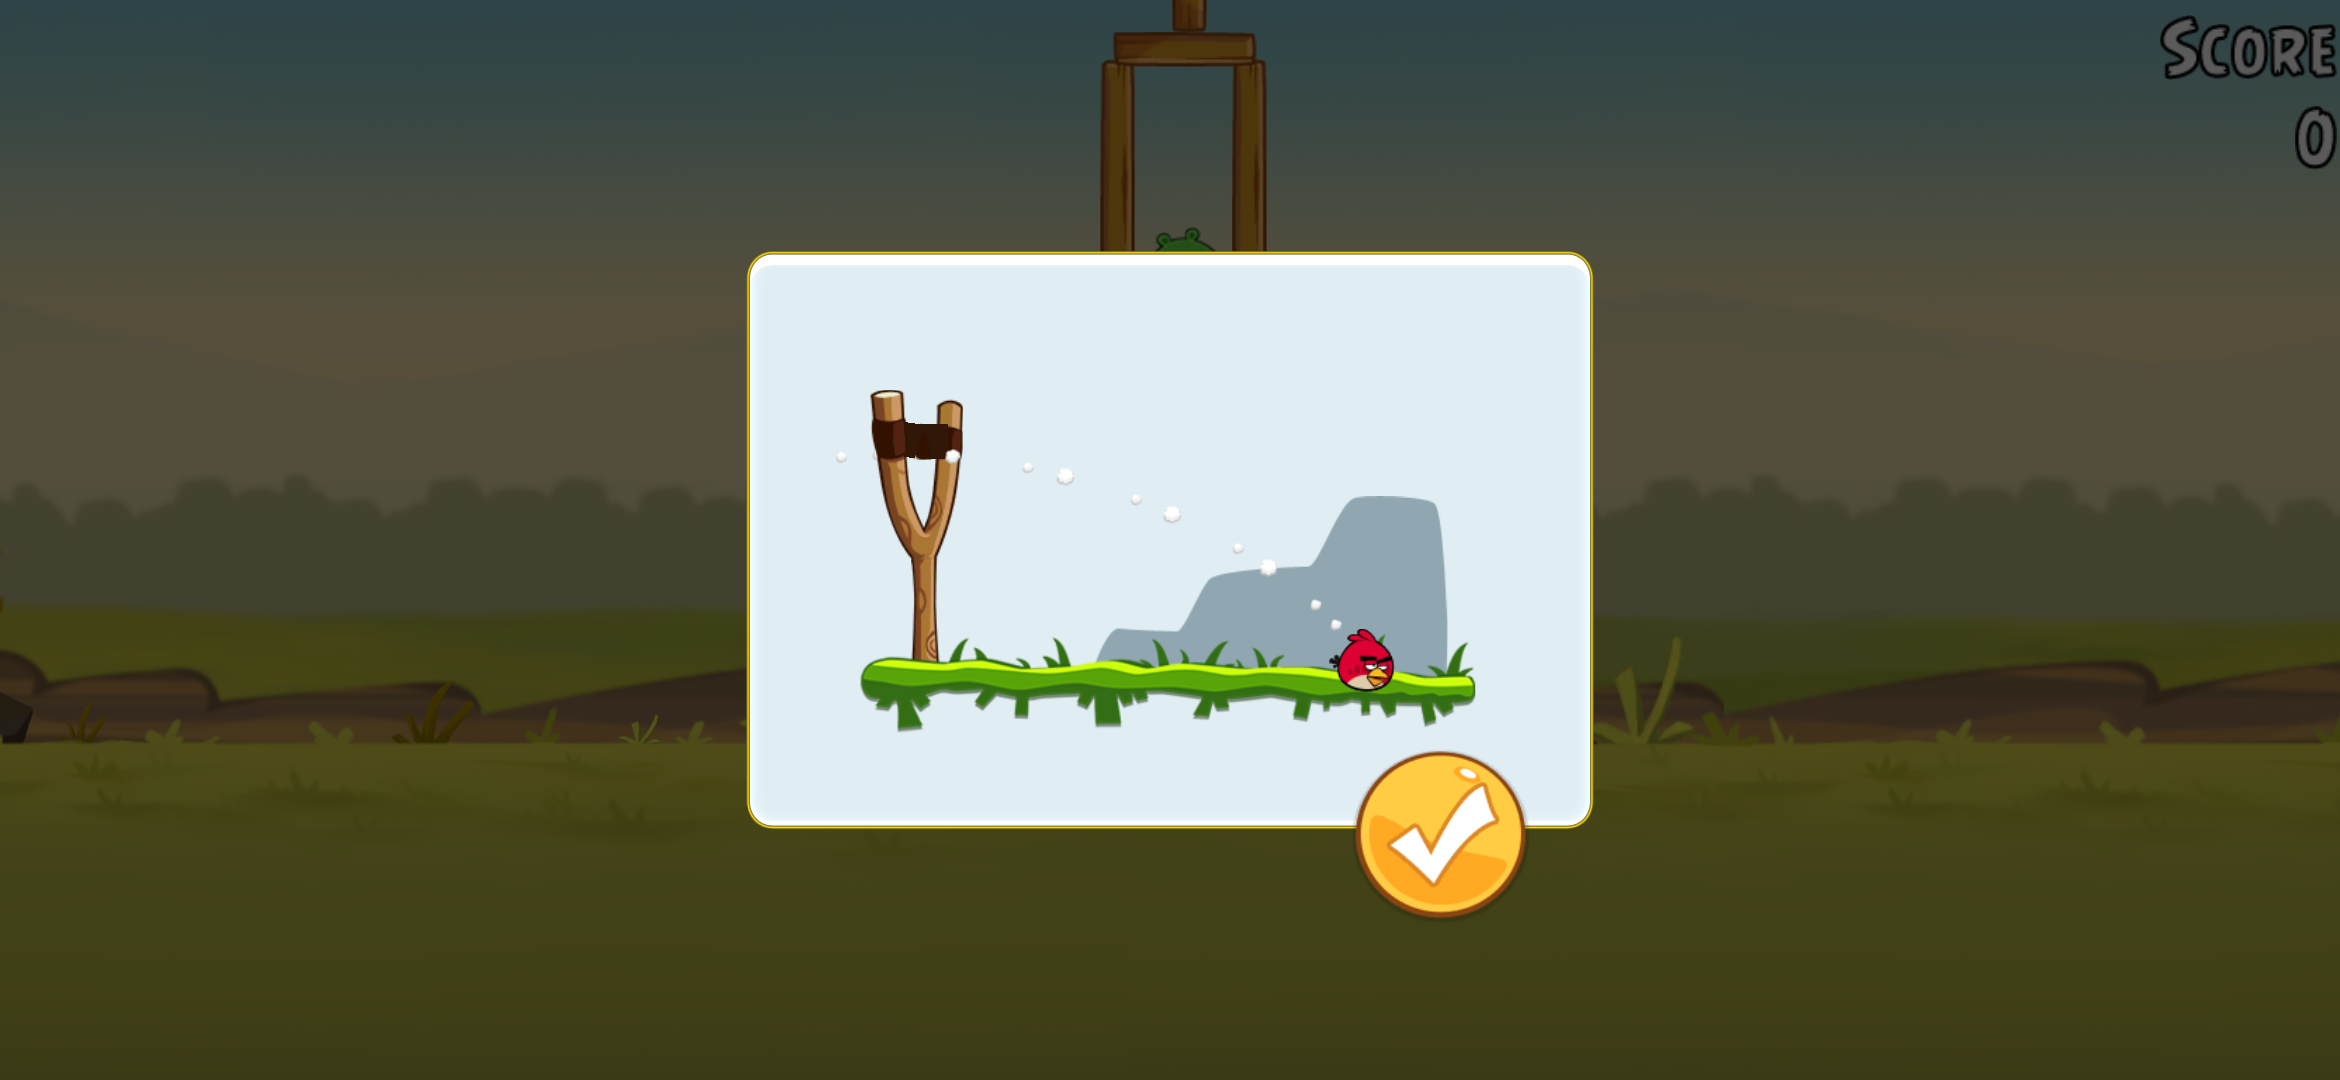
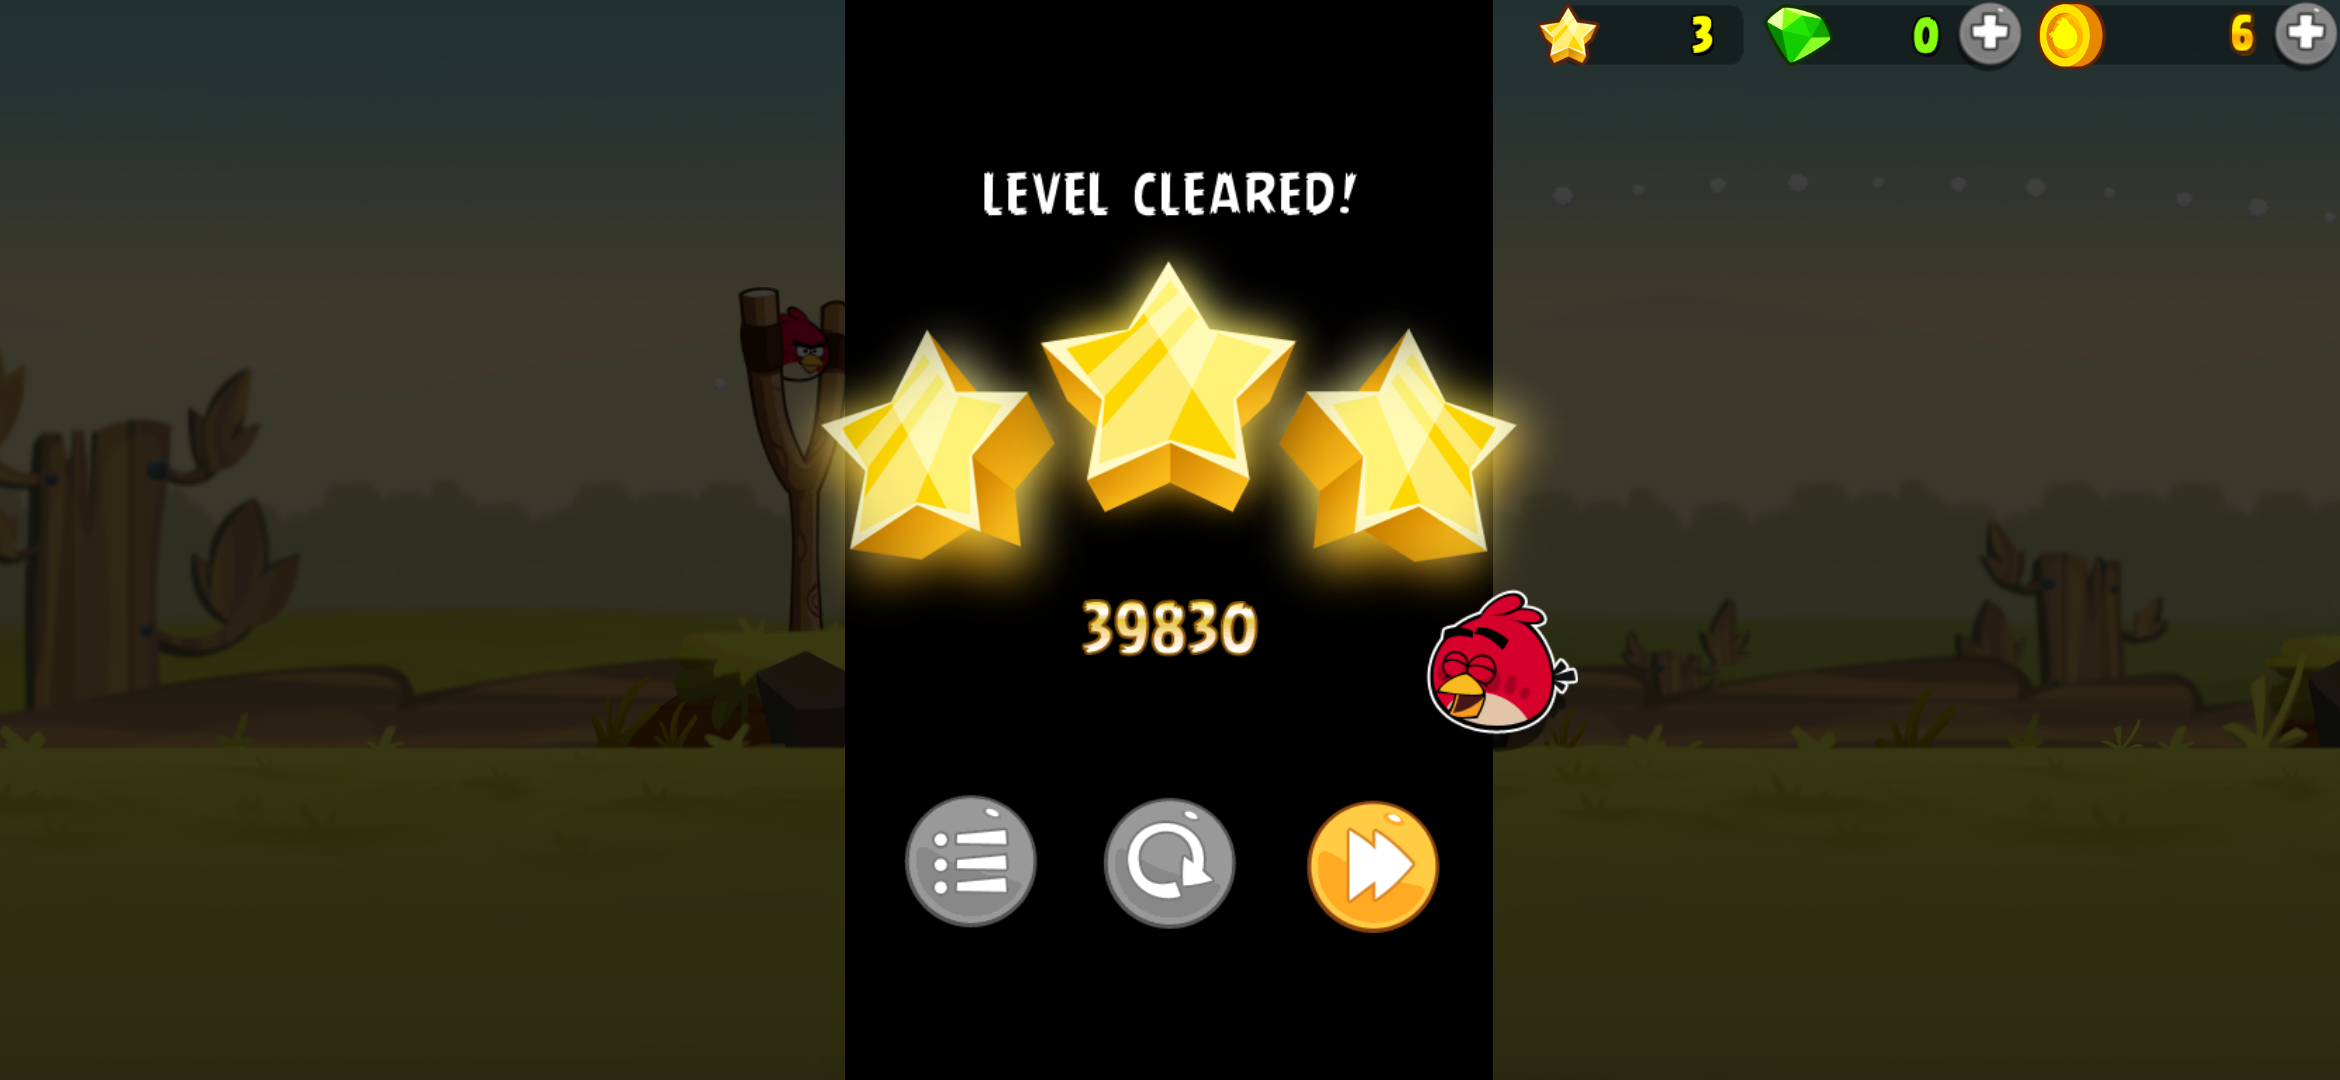
screen: WIN at the A56's geometry — which also validates touch mapping through the shim
PROOF_21 previously showed the game RENDERING at 1080x2340. It now shows "LEVEL CLEARED",
3 stars, 39830, h_fatal=0 over 8928 shim log lines, frame[2401].

The upgrade matters for a reason beyond a nicer screenshot: touch events reach the engine
through the shim's JNI path, and nothing in this project had ever exercised that mapping at
anything other than 640x320. A slingshot drag that actually scores at the phone's resolution IS
the test of it, so the win is evidence about the port, not just about the game.

Two attempts, and the failure is the instructive part. The first estimated tap/drag fractions by
eye off PROOF_21 and put the drag at y=0.58 when the rig that reliably wins drags at y=0.369 --
far too low, so it grabbed nothing, and the run ended on the tutorial card with a perfectly
healthy log (frame[2701], h_fatal=0). The fix was not better eyeballing but to SCALE THE
COORDINATES THAT ALREADY WORK:

    tap  (390,266) / 640x320  -> (0.609, 0.831)
    drag (207,118)->(110,150) -> (0.323,0.369) -> (0.172,0.469)

Also repeated the confirm tap rather than firing it twice and hoping, because card timing is
slower at this resolution -- which is what made the first attempt's early taps miss the card
entirely.

Worth noting the win check did its job in both directions across these runs: it reported
"[ NOT ] ... no star cluster (gold 0.0060 < 0.01) -- a BLACK/crashed screen looks like this"
[…]

diff --git a/reports/shots/README.md b/reports/shots/README.md
@@ -54,7 +54,7 @@ is given from the run that produced them and is marked `(by run, not hash)`.
 | `PROOF_14_heapfix_api34_wins.png` | The allocator fix holds on modern Android. **HISTORICAL** — a point-in-time check; superseded by `PROOF_15`/`PROOF_16` | x86shim-release (build unknown) | 34 | — | |
 | `PROOF_19_level2_android16.png` | **Advances into level 2 on Android 16** — a fresh puzzle at score 0 with pigs on structures. Progression, not just a single win, on the A56's OS | x86shim-release | **36 (GMS)** | `ABSHIM_AVD=ab36 ABSHIM_OUTPFX=modprog36 emu_modern_progress.sh` |
 | `PROOF_20_premise_same_device.png` | **The premise and the fix, on ONE device, in ONE run.** On a 64-bit-only Android (`ro.product.cpu.abilist` = `x86_64`), Rovio's untouched 8.0.3 is REFUSED — `INSTALL_FAILED_NO_MATCHING_ABIS ... res=-113` — and the SAME game, re-hosted by the shim, installs and renders on that same device (frame[601], `h_fatal=0`). This is what the project is for; see `OPEN_FINDINGS.md` R12 | x86shim-release | 34 | `emu_premise.sh` |
-| `PROOF_21_a56_geometry.png` | **Renders at the Galaxy A56's actual screen geometry** — 1080x2340 panel, so a 2340x1080 landscape capture. Full-bleed, **no letterboxing** (`resizeableActivity="false"` is declared, but targetSdk 26 lifts the 1.86 max-aspect cap). `h_fatal=0`, frame[1801]. Largest texture upload unchanged at 2000x1991 despite a 3.7x larger framebuffer | x86shim-shaders | 34 | `emu_a56_screen.sh` |
+| `PROOF_21_a56_geometry.png` | **WINS at the Galaxy A56's actual screen geometry** — 1080x2340 panel, so a 2340x1080 landscape capture. "LEVEL CLEARED", 3 stars, **39830**, `h_fatal=0`, frame[2401]. Full-bleed, **no letterboxing** (`resizeableActivity="false"` is declared, but targetSdk 26 lifts the 1.86 max-aspect cap). The win also proves **touch coordinates map correctly through the shim at this resolution** — nothing else had exercised that above 640x320. Largest texture upload unchanged at 2000x1991 despite a 3.7x larger framebuffer | x86shim-shaders | 34 | `emu_a56_screen.sh` |
 | `PROOF_18_win_android16.png` | **Wins on Android 16 (API 36) with Google Play Services** — the A56's actual OS version and GMS situation. Every other modern-Android proof is API 34 | x86shim-release | **36 (GMS)** | `ABSHIM_AVD=ab36 ABSHIM_OUTPFX=modplay36 emu_modern_playthrough.sh` |
 | `PROOF_16_win_with_gms.png` | **Wins on modern Android with Google Play Services present** — the closest reachable match to the A56's environment (API 34 + GMS + W^X + targetSdk-26 install policy). Every other win proof is from a GMS-less AOSP image | x86shim-release | 34 (GMS) | `ABSHIM_AVD=abgms ABSHIM_OUTPFX=modplaygms emu_modern_playthrough.sh` |
 | `PROOF_15_win_on_reproducible_proxy.png` | Wins on the **bit-reproducible** proxy build | x86shim-release | 34 | `emu_modern_playthrough.sh` |

diff --git a/port/OPEN_FINDINGS.md b/port/OPEN_FINDINGS.md
@@ -217,7 +217,8 @@ the very few A56 attributes this host can genuinely reproduce — so `emu_a56_sc
 
 | | |
 |---|---|
-| renders | yes — frame[1801], `h_fatal=0` over 7685 shim log lines |
+| plays and **wins** | "LEVEL CLEARED", 3 stars, **39830** — frame[2401], `h_fatal=0` over 8928 shim log lines (`PROOF_21`) |
+| touch mapping | **validated by that win.** Touch events reach the engine through the shim's JNI path, and nothing had exercised that mapping above 640x320. A slingshot drag that scores at 1080x2340 *is* the test |
 | letterboxing | **none.** The capture is 2340 × 1080 — a landscape game on a portrait panel, so the transposition is the correct result — and the art is full-bleed to every edge (`PROOF_21`) |
 | largest texture upload | **still 2000 × 1991**, unchanged by a 3.7× larger framebuffer |
 | splash tier chosen | **still `1024x600_splash`** (20 opens) |
